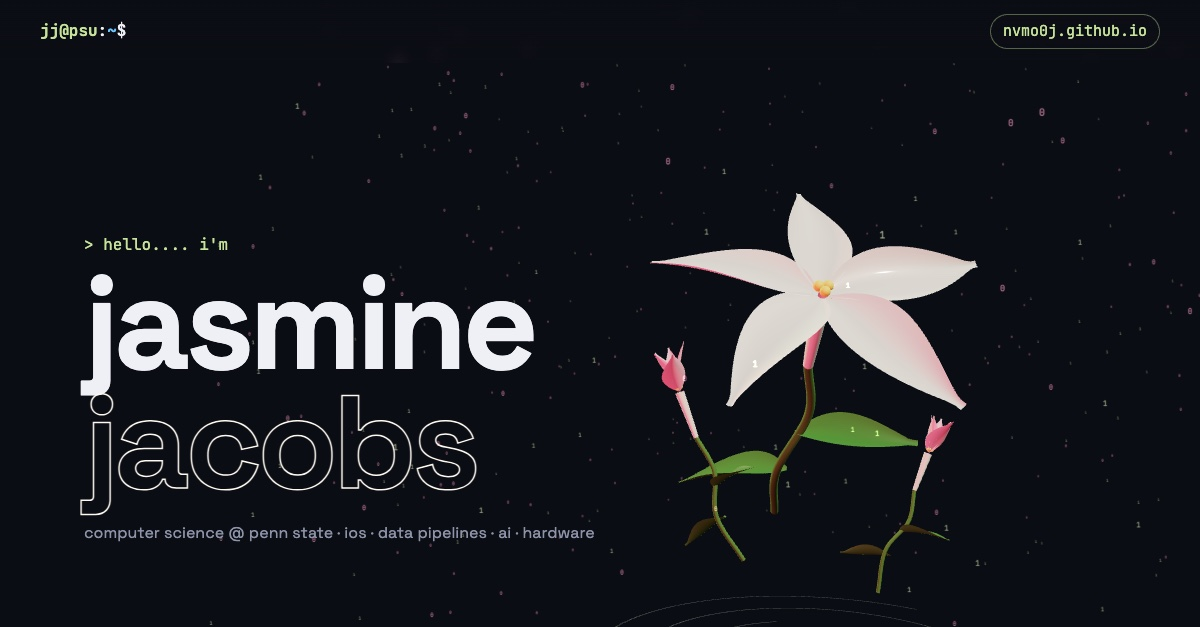
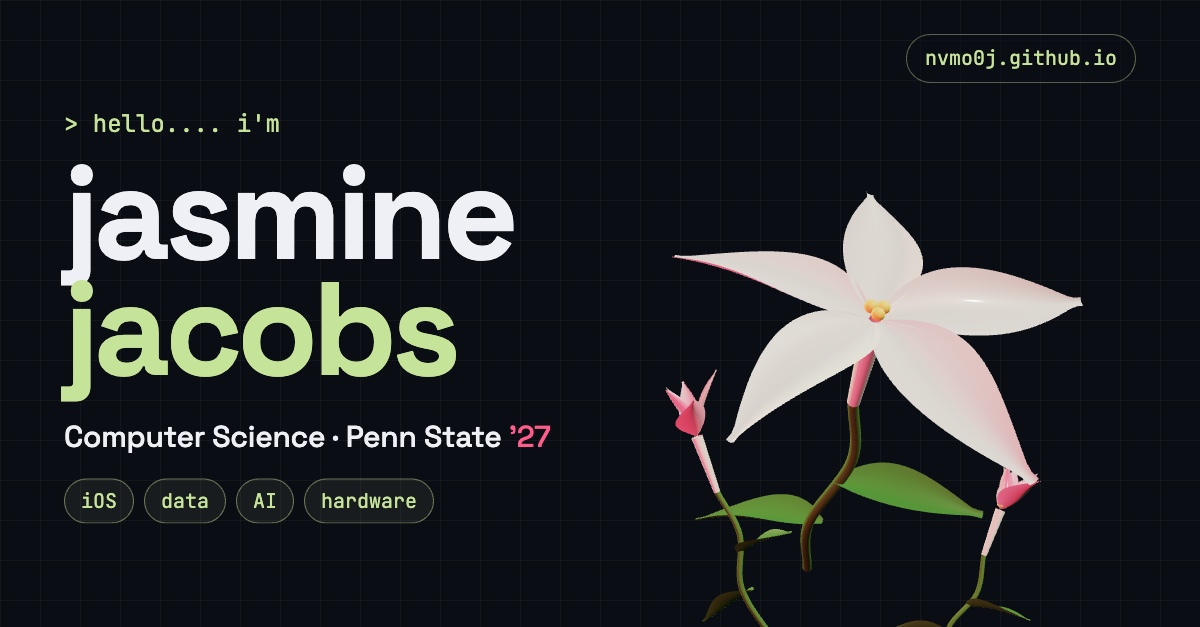
Clearer link preview card

diff --git a/styles.css b/styles.css
@@ -607,3 +607,29 @@ b { color: var(--mint); font-weight: 600; }
   font-family: var(--mono); font-size: 15px; color: var(--mint);
   padding: 5px 12px; border: 1px solid rgba(198,227,154,.4); border-radius: 999px; background: rgba(11,13,20,.6);
 }
+
+/* ───────── ?og preview card: big, high-contrast, readable at thumbnail size ───────── */
+.og-extra { display: none; }
+.og body {
+  background:
+    radial-gradient(520px 420px at 76% 46%, rgba(255,92,138,.16), transparent 70%),
+    radial-gradient(420px 360px at 70% 60%, rgba(198,227,154,.12), transparent 70%),
+    linear-gradient(rgba(198,227,154,.05) 1px, transparent 1px) 0 0 / 40px 40px,
+    linear-gradient(90deg, rgba(198,227,154,.05) 1px, transparent 1px) 0 0 / 40px 40px,
+    #0b0d14;
+}
+.og #rain, .og .tagline, .og .hint, .og .nav-logo { display: none !important; }
+.og .nav { background: none; backdrop-filter: none; padding: 34px 64px; }
+.og .nav::after { font-size: 20px !important; padding: 8px 18px !important; }
+.og .hero-copy { left: 64px; top: 50%; bottom: auto; transform: translateY(-50%); max-width: 640px; }
+.og .hello { font-size: 24px; margin-bottom: 14px; }
+.og .name { font-size: 132px; line-height: .88; }
+.og .name-last { color: var(--mint); -webkit-text-stroke: 0; }
+.og .og-extra { display: block; margin-top: 26px; }
+.og .og-role { margin: 0 0 18px; font-size: 30px; font-weight: 500; color: var(--text); letter-spacing: -.01em; }
+.og .og-role span { color: var(--pink); }
+.og .og-chips { list-style: none; margin: 0; padding: 0; display: flex; gap: 10px; }
+.og .og-chips li {
+  font-family: var(--mono); font-size: 20px; padding: 6px 16px; border-radius: 999px;
+  border: 1.5px solid rgba(198,227,154,.45); color: var(--mint); background: rgba(198,227,154,.07);
+}

diff --git a/main.js b/main.js
@@ -102,7 +102,7 @@ function binaryRain() {
       drops[i] = y > h && Math.random() > 0.975 ? 0 : drops[i] + 1;
     }
   };
-  if (!reduceMotion || OG) requestAnimationFrame(tick);
+  if (!reduceMotion) requestAnimationFrame(tick);
 }
 
 /* ═════════ 3. hero: 3D jasmine bloom ═════════ */
@@ -254,6 +254,7 @@ function hero(THREE) {
     bits.add(new THREE.Points(g, m));
   });
   rig.add(bits);
+  if (OG) bits.visible = false; // cleaner preview card
 
   // layout: flower sits right on desktop, top on mobile
   const resize = () => {
@@ -263,6 +264,7 @@ function hero(THREE) {
     const wide = w > 760;
     rig.position.set(wide ? 1.9 : 0, wide ? 1.75 : 2.2, 0);
     rig.scale.setScalar(wide ? 0.95 : 0.7);
+    if (OG) { rig.position.set(2.35, 1.55, 0); rig.scale.setScalar(1.18); }
   };
   resize(); addEventListener("resize", resize);
 

diff --git a/index.html b/index.html
@@ -68,6 +68,11 @@
         </h1>
         <p class="tagline">computer science @ penn state · ios · data pipelines · ai · hardware</p>
         <p class="hint mono">click the flower to re-bloom · scroll ↓</p>
+        <!-- only shown in ?og mode, for the link preview image -->
+        <div class="og-extra" aria-hidden="true">
+          <p class="og-role">Computer Science · Penn State <span>’27</span></p>
+          <ul class="og-chips"><li>iOS</li><li>data</li><li>AI</li><li>hardware</li></ul>
+        </div>
       </div>
     </section>
 
